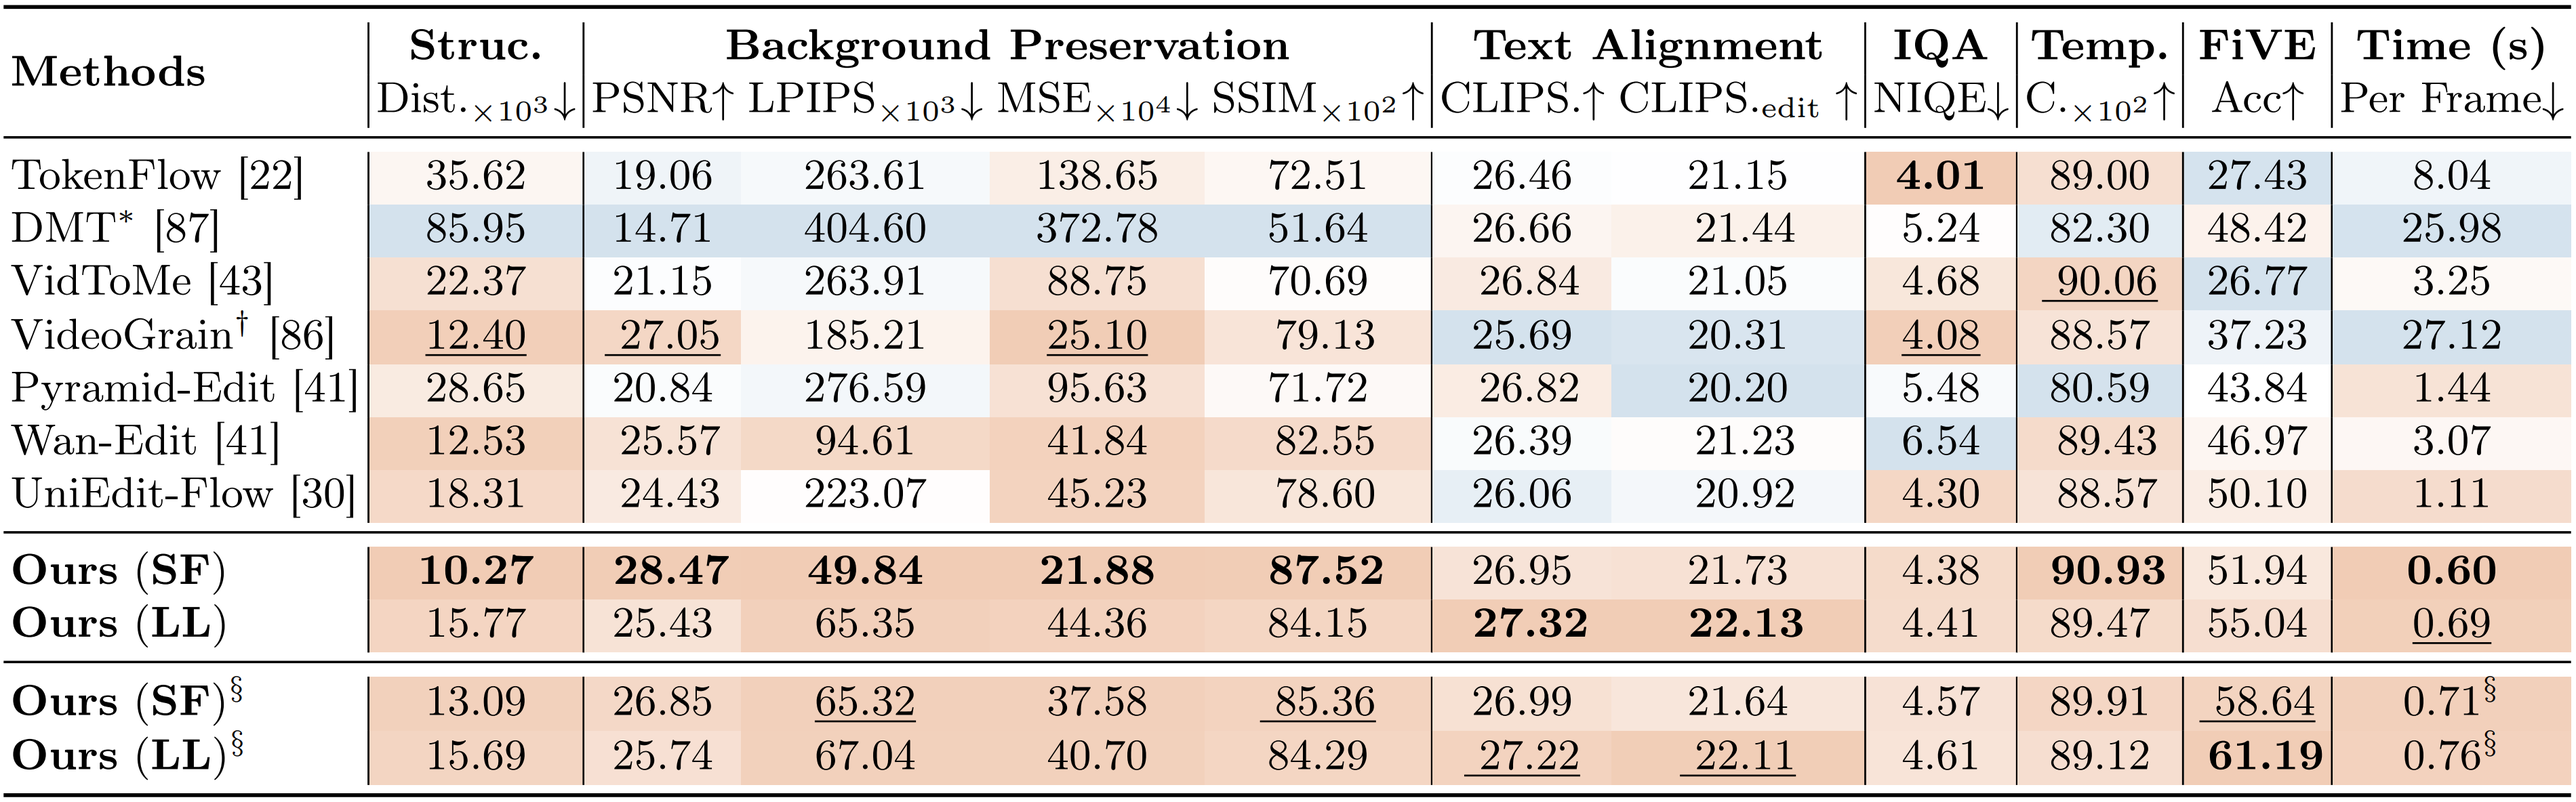
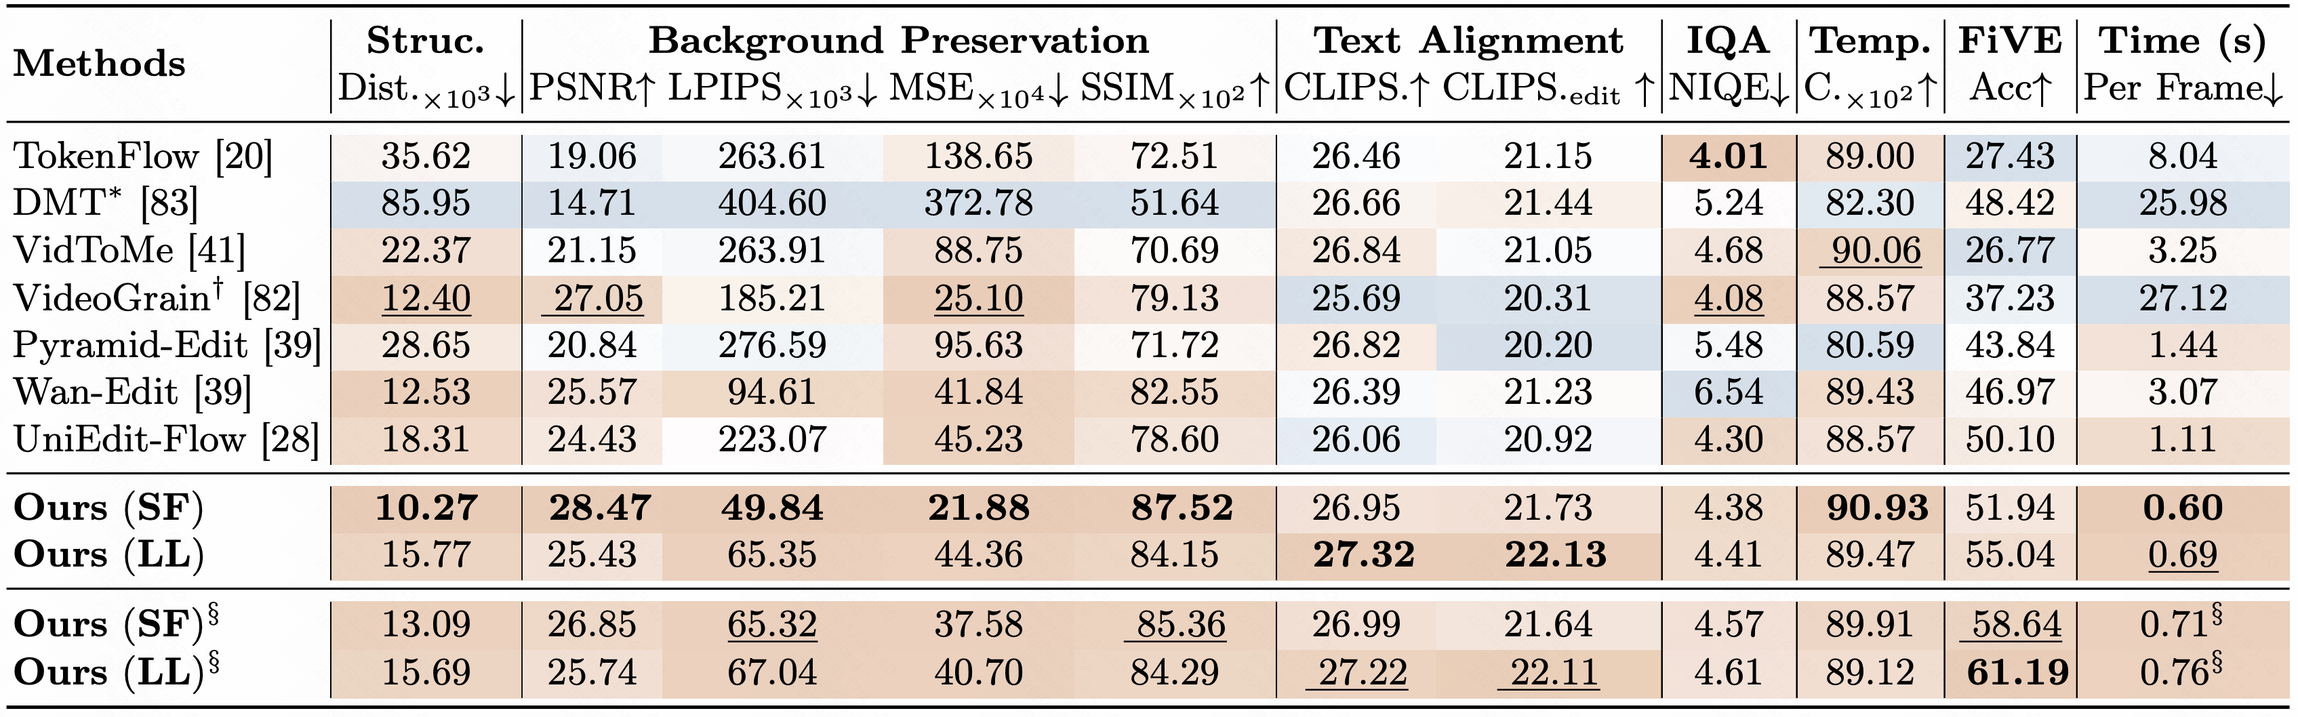
StreamEdit

diff --git a/index.html b/index.html
@@ -3,7 +3,7 @@
 <head>
     <meta charset="UTF-8">
     <meta name="viewport" content="width=device-width, initial-scale=1.0">
-    <title>StreamGVE: Training-Free Video Editing via Few-Step Streaming Video Generation</title>
+    <title>StreamEdit: Training-Free Video Editing via Few-Step Streaming Video Generation</title>
     <link rel="stylesheet" href="styles.css">
     <!-- KaTeX for math rendering -->
     <link rel="stylesheet" href="https://cdn.jsdelivr.net/npm/katex@0.16.9/dist/katex.min.css">
@@ -21,7 +21,7 @@
     <!-- ==================== HEADER SECTION ==================== -->
     <header class="site-header">
         <div class="container">
-            <h1 class="paper-title">StreamGVE</h1>
+            <h1 class="paper-title">StreamEdit</h1>
             <p class="paper-subtitle">Training-Free Video Editing via Few-Step Streaming Video Generation</p>
 
             <!-- Author List -->
@@ -67,7 +67,7 @@
                     </svg>
                     Paper
                 </a>
-                <a href="https://github.com/DSL-Lab/StreamGVE/" class="btn btn-secondary" target="_blank">
+                <a href="https://github.com/DSL-Lab/StreamEdit/" class="btn btn-secondary" target="_blank">
                     <svg class="icon" viewBox="0 0 24 24" fill="currentColor">
                         <path d="M12 0c-6.626 0-12 5.373-12 12 0 5.302 3.438 9.8 8.207 11.387.599.111.793-.261.793-.577v-2.234c-3.338.726-4.033-1.416-4.033-1.416-.546-1.387-1.333-1.756-1.333-1.756-1.089-.745.083-.729.083-.729 1.205.084 1.839 1.237 1.839 1.237 1.07 1.834 2.807 1.304 3.492.997.107-.775.418-1.305.762-1.604-2.665-.305-5.467-1.334-5.467-5.931 0-1.311.469-2.381 1.236-3.221-.124-.303-.535-1.524.117-3.176 0 0 1.008-.322 3.301 1.23.957-.266 1.983-.399 3.003-.404 1.02.005 2.047.138 3.006.404 2.291-1.552 3.297-1.23 3.297-1.23.653 1.653.242 2.874.118 3.176.77.84 1.235 1.911 1.235 3.221 0 4.609-2.807 5.624-5.479 5.921.43.372.823 1.102.823 2.222v3.293c0 .319.192.694.801.576 4.765-1.589 8.199-6.086 8.199-11.386 0-6.627-5.373-12-12-12z"/>
                     </svg>
@@ -103,10 +103,10 @@
         <div class="container">
             <!-- Teaser Image -->
             <figure class="teaser-figure">
-                <img src="assets/teaser.png" alt="StreamGVE teaser showing text-driven and image-prompted video editing results">
+                <img src="assets/teaser.png" alt="StreamEdit teaser showing text-driven and image-prompted video editing results">
                 <figcaption>
                     <strong>Training-free text-driven (optional image-conditioned) streaming video editing.</strong>
-                    StreamGVE supports both text-driven video editing and first-frame-prompted editing, suitable for various editing tasks while having superiority in background preservation. Developed on text-to-video streaming generation models, StreamGVE supports efficient video editing for any length, with less than 0.32 second per frame (5 steps) on a single A100 GPU.
+                    StreamEdit supports both text-driven video editing and first-frame-prompted editing, suitable for various editing tasks while having superiority in background preservation. Developed on text-to-video streaming generation models, StreamEdit supports efficient video editing for any length, with less than 0.32 second per frame (5 steps) on a single A100 GPU.
                 </figcaption>
             </figure>
 
@@ -122,15 +122,15 @@
                 We attribute this limitation to the <strong>prevalent data-to-data paradigm</strong>, which is less compatible with modern generative models than <strong>noise-to-data generation</strong>.
             </p>
             <p>
-                To address this gap, we revisit video editing from a noise-to-data perspective and propose <strong>Stream</strong>ing-<strong>G</strong>eneration-based <strong>V</strong>ideo <strong>E</strong>diting (<strong>StreamGVE</strong>), which preserves few-step sampling while seamlessly injecting source-video conditions.
+                To address this gap, we revisit video editing from a noise-to-data perspective and propose <strong>Stream</strong>ing-Generation-based Video <strong>Edit</strong>ing (<strong>StreamEdit</strong>), which preserves few-step sampling while seamlessly injecting source-video conditions.
             </p>
             <p>
-                Built on pre-trained streaming generation models, StreamGVE introduces <i>dual-branch fast sampling</i> with a <i>self-attention bridge</i> and <i>cross-attention grounding/boosting</i> to satisfy both sampling and conditioning requirements.
+                Built on pre-trained streaming generation models, StreamEdit introduces <i>dual-branch fast sampling</i> with a <i>self-attention bridge</i> and <i>cross-attention grounding/boosting</i> to satisfy both sampling and conditioning requirements.
                 We further propose <i>source-oriented guidance</i> to improve target-generation quality, and a <i>visual prompting strategy</i> to enhance editing flexibility and practicality.
             </p>
             <p>
                 The method is effective, robust, and generalizable across different models.
-                Extensive experiments on diverse video editing tasks show that StreamGVE consistently outperforms existing approaches, even in few-step settings with minimal time cost.
+                Extensive experiments on diverse video editing tasks show that StreamEdit consistently outperforms existing approaches, even in few-step settings with minimal time cost.
             </p>
         </div>
     </section>
@@ -703,15 +703,15 @@
                     Conventional training-free editing follows a <strong>data → data</strong> paradigm: inversion-based methods perform source → noise → target transfer, while inversion-free methods perform direct source → target transfer. Both approaches are tightly coupled to iterative procedures and cannot well exploit fast few-step sampling.
                 </p>
                 <p>
-                    We propose viewing video editing as <strong>source-conditioned noise → target generation</strong>. This reformulation preserves the few-step sampling capability of streaming generators while injecting source-video conditions for controllability. Built on pre-trained streaming models (<a href="https://github.com/guandeh17/Self-Forcing">Self Forcing</a>, <a href="https://github.com/NVlabs/LongLive">LongLive</a>), StreamGVE realizes this paradigm through the dual-branch fast sampling and attention manipulations.
+                    We propose viewing video editing as <strong>source-conditioned noise → target generation</strong>. This reformulation preserves the few-step sampling capability of streaming generators while injecting source-video conditions for controllability. Built on pre-trained streaming models (<a href="https://github.com/guandeh17/Self-Forcing">Self Forcing</a>, <a href="https://github.com/NVlabs/LongLive">LongLive</a>), StreamEdit realizes this paradigm through the dual-branch fast sampling and attention manipulations.
                 </p>
             </div>
 
             <!-- Framework Figure -->
             <figure class="method-figure">
-                <img src="assets/framework.png" alt="StreamGVE framework overview">
+                <img src="assets/framework.png" alt="StreamEdit framework overview">
                 <figcaption>
-                    <strong>Overview of the StreamGVE framework.</strong> (a) The generation process of dual-branch fast sampling with source-oriented guidance. (b) Self-attention bridge (S.A.B.) for source condition injection and cross-attention grounding for editing-related region identification.
+                    <strong>Overview of the StreamEdit framework.</strong> (a) The generation process of dual-branch fast sampling with source-oriented guidance. (b) Self-attention bridge (S.A.B.) for source condition injection and cross-attention grounding for editing-related region identification.
                 </figcaption>
             </figure>
 
@@ -844,14 +844,14 @@
         <div class="container">
             <h2 id="results">Results</h2>
             <p>
-                StreamGVE achieves state-of-the-art performance on  <a href="https://github.com/MinghanLi/FiVE-Bench" ><strong>FiVE-Bench</strong></a>, a comprehensive benchmark spanning 100 videos and 420 editing cases across six edit types: color alteration, material modification, object substitution with/without non-rigid deformation, addition, and removal.
+                StreamEdit achieves state-of-the-art performance on  <a href="https://github.com/MinghanLi/FiVE-Bench" ><strong>FiVE-Bench</strong></a>, a comprehensive benchmark spanning 100 videos and 420 editing cases across six edit types: color alteration, material modification, object substitution with/without non-rigid deformation, addition, and removal.
             </p>
 
             <!-- Quantitative Results Table Placeholder -->
                 <figure class="results-figure">
-                    <img src="assets/tab.png" alt="Comparison of video editing methods on FiVE-Bench">
+                    <img src="assets/tab.png" alt="Comparison of video editing on FiVE-Bench">
                     <figcaption>
-                        <strong>Comparison of video editing methods on <a href="https://github.com/MinghanLi/FiVE-Bench" >FiVE-Bench</a></strong>. StreamGVE (Ours SF and Ours LL<sup>§</sup>) delivers consistently better results with minimal time cost.
+                        <strong>Comparison of video editing on <a href="https://github.com/MinghanLi/FiVE-Bench" >FiVE-Bench</a></strong>. StreamEdit (Ours SF and Ours LL<sup>§</sup>) delivers consistently better results with minimal time cost.
                     </figcaption>
                 </figure>
 
@@ -861,7 +861,7 @@
             <hr>
 
             <!-- Short-Video Editing Comparison -->
-            <div class="qualitative-video-area">
+            <!-- <div class="qualitative-video-area">
                 <h4 class="qualitative-video-title">Short-Video Editing</h4>
                 <div class="qualitative-video-wrapper">
                     <video muted playsinline controls preload="metadata">
@@ -869,20 +869,20 @@
                     </video>
                 </div>
                 <p class="qualitative-video-caption">Comparison of different methods on short-video editing tasks.</p>
-            </div>
+            </div> -->
 
             <!-- Static Figures (Alternative/Additional to comparison rows) -->
             <div class="results-figures">
                 <figure class="results-figure">
                     <img src="assets/qualitative.png" alt="Qualitative comparisons with baseline methods">
                     <figcaption>
-                        <strong>Qualitative comparisons.</strong> StreamGVE (Ours SF and Ours LL<sup>§</sup>) demonstrates advantages over previous state-of-the-art methods.
+                        <strong>Qualitative comparisons.</strong> StreamEdit (Ours SF and Ours LL<sup>§</sup>) demonstrates advantages over previous state-of-the-art methods.
                     </figcaption>
                 </figure>
             </div>
 
             <!-- Long-Video Editing Comparison -->
-            <div class="qualitative-video-area">
+            <!-- <div class="qualitative-video-area">
                 <h4 class="qualitative-video-title">Long-Video Editing</h4>
                 <div class="qualitative-video-wrapper">
                     <video muted playsinline controls preload="metadata">
@@ -890,7 +890,7 @@
                     </video>
                 </div>
                 <p class="qualitative-video-caption">Comparison of different methods on long-video editing tasks.</p>
-            </div>
+            </div> -->
 
             <!-- Static Figures (Alternative/Additional to comparison rows) -->
             <div class="results-figures">
@@ -944,7 +944,7 @@
     <!-- ==================== FOOTER ==================== -->
     <footer class="site-footer">
         <div class="container">
-            <p>&copy; 2026 StreamGVE Project. All rights reserved.</p>
+            <p>&copy; 2026 StreamEdit Project. All rights reserved.</p>
             <!-- <p class="footer-note">Project page for arXiv preprint</p> -->
         </div>
     </footer>

diff --git a/script.js b/script.js
@@ -1,5 +1,5 @@
 /**
- * StreamGVE Project Page - Simple Scripts
+ * StreamEdit Project Page - Simple Scripts
  */
 
 // Copy BibTeX to clipboard
